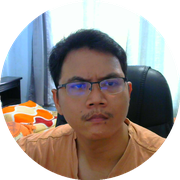
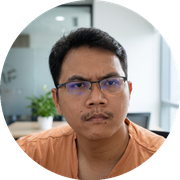
change photo background

diff --git a/src/FloatingChat.tsx b/src/FloatingChat.tsx
@@ -70,7 +70,7 @@ export default function FloatingChat() {
           className="fixed bottom-6 right-6 z-50 h-14 w-14 rounded-full shadow-lg shadow-primary/30 ring-2 ring-primary/30 hover:scale-105 transition-transform overflow-visible"
         >
           <img
-            src="/pray.jpg"
+            src="/pray.png"
             alt={profile.name}
             className="h-full w-full rounded-full object-cover"
           />
@@ -89,7 +89,7 @@ export default function FloatingChat() {
           <header className="flex items-center justify-between px-4 py-3 border-b border-border bg-gradient-theme-r text-primary-foreground">
             <div className="flex items-center gap-2">
               <img
-                src="/pray.jpg"
+                src="/pray.png"
                 alt={profile.name}
                 className="h-8 w-8 rounded-full object-cover ring-2 ring-white/40"
               />

diff --git a/src/App.tsx b/src/App.tsx
@@ -76,7 +76,7 @@ function Avatar({ size = 'lg' }: { size?: 'sm' | 'lg' }) {
   const dim = size === 'lg' ? 'h-24 w-24' : 'h-12 w-12'
   return (
     <img
-      src="/pray.jpg"
+      src="/pray.png"
       alt={profile.name}
       className={`${dim} rounded-full object-cover ring-2 ring-primary/30 shadow-lg shadow-primary/20`}
     />
